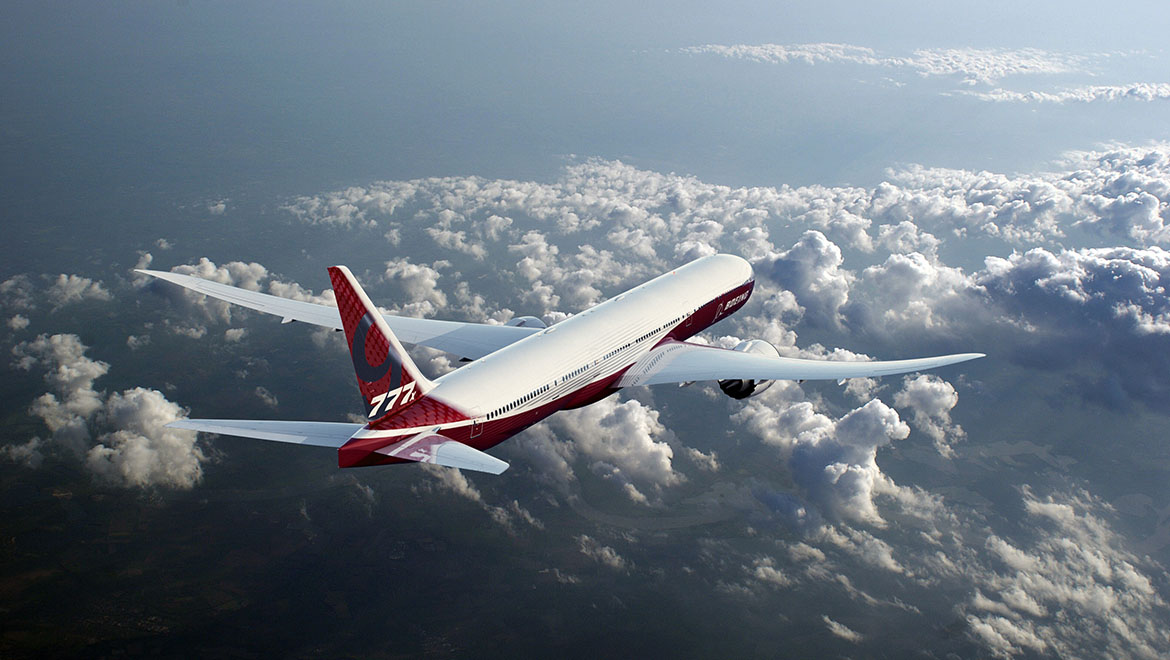
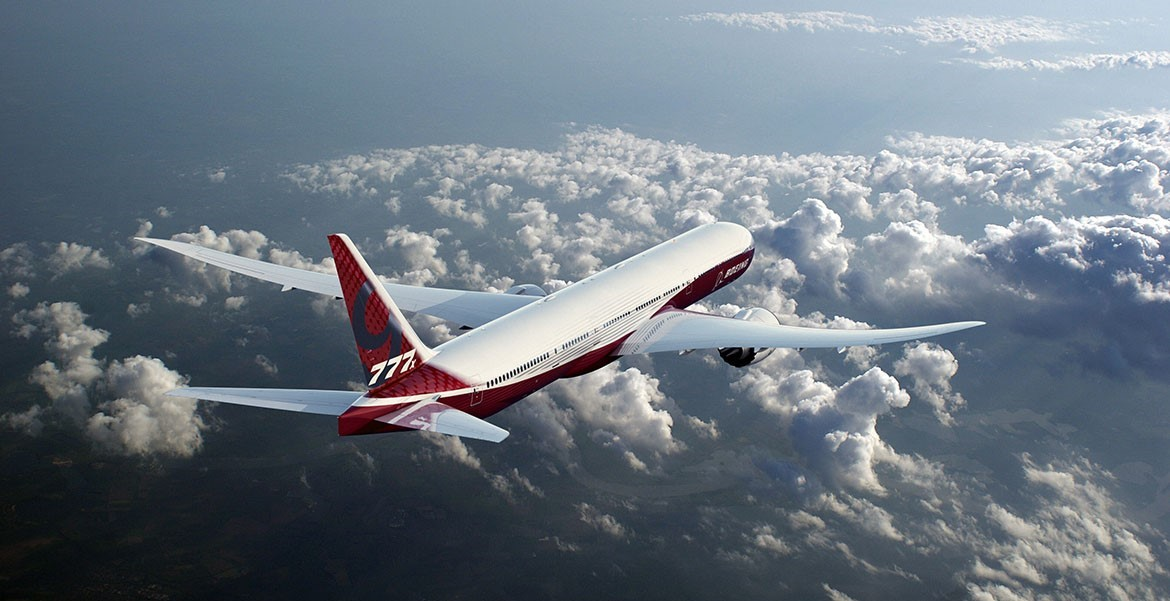
3nd commit

diff --git a/src/Pages/Technic.js b/src/Pages/Technic.js
@@ -1,65 +1,80 @@
+import Inhalt from "../Components/Inhalt";
+
 function Technic() {
   return (
     <div>
       <div className="pt-5 pr-5 pl-5">
-        <div className="p-10 text-slate-50 bg-slate-800 rounded-t-3xl rounded-bl-3xl ">
-          <h1 className="text-4xl">
+        <div className="p-10 pb-7 text-slate-50 bg-slate-800 rounded-t-2xl rounded-bl-2xl ">
+          <h1 className="text-4xl pb-5">
             Engineering/Tec - All Data about the 777X
           </h1>
+          <hr class="h-px border-t-0 bg-transparent bg-gradient-to-r from-transparent via-neutral-50 to-transparent opacity-25 dark:opacity-100" />
         </div>
       </div>
 
-      <div className="pl-5 pr-5">
-        <div className="flex flex-row">
-            <div className="w-5/12">
-            <img
-                className="object-cover rounded-3xl p-3.5 pr-1.25"
-                src="./pictures/Boeing777x_tec1.jpg"
-            ></img>
-            </div>
-
-            <div className="w-3/12">
-            <img
-                className="object-cover rounded-3xl p-3.5 pl-1.25"
-                src="./pictures/Boeing777x_tec2.jpg"
-            ></img>
-            </div>
-            
-            <div className="bg-slate-800 w-4/12 p-6 text-slate-50 rounded-b-3xl">
-            <h1 className="text-3xl">Technical Data:</h1>
-            <br/>
-
-            -Wingspan: 65m-71.8m <br/>
-            -Range: 
-            </div>
+      <div className="flex flex-row">
+        <div className="w-5/12">
+          <img
+            className="object-cover rounded-[2rem] p-5"
+            src="./pictures/Boeing777x_tec1.jpg"
+          ></img>
         </div>
+
+        <div className="w-3/12">
+          <img
+            className="object-cover rounded-[2rem] p-5"
+            src="./pictures/Boeing777x_tec2.jpg"
+          ></img>
+        </div>
+        <Inhalt />
+      </div>
+
+      <div className="p-5">
+        <h1 className="text-[30px] pb-2">Measurement:</h1>
+        <hr class="h-px border-t-0 bg-transparent bg-gradient-to-r from-transparent via-neutral-800 to-transparent opacity-25 dark:opacity-100" />
+
+        <div className="flex flex-row">
+          <div className>
+            <img
+              className="object-cover rounded-[2rem] p-5"
+              src="./pictures/mess2.png"
+            ></img>
+          </div>
+          <div>
+            <img
+              className="object-cover rounded-[2rem] p-5"
+              src="./pictures/mess1.png"
+            ></img>
+          </div>
+        </div>
+      </div>
+
+      <div className="p-5">
+        <h1 className="text-[30px] pb-2">Comparison: 777X vs The World </h1>
+        <hr class="h-px border-t-0 bg-transparent bg-gradient-to-r from-transparent via-neutral-800 to-transparent opacity-25 dark:opacity-100" />
+        <div className="flex flex-row">
+            <div className="w-1/4 p-3 border-r-2">
+            Boeing 777X: <br />
+            -Length 
+            777X-8 
+            777X-9 71.5m
+            </div>
+            <div className="w-1/4 p-3 border-r-2">
+            Boeing 777-200er:
+            </div>
+            <div className="w-1/4 p-3 border-r-2">
+            Airbus 350-1000:
+                
+            </div>
+            <div className="w-1/4 p-3">
+            Boeing 747-8i:
+            </div>
+
+        </div>
+
       </div>
     </div>
   );
 }
 export default Technic;
 
-{
-  /*
-<div className="p-14 text-slate-50 bg-slate-800 rounded-t-3xl rounded-bl-3xl">
-        hello and welcome on se 2nd site Engineering
-      </div>
-
-
-    
-      <div className="flex flex-row">
-        <div className="w-6/12">
-            <img className="object-cover rounded-3xl p-3" src="./pictures/Boeing777x_tec1.jpg"></img>     
-        </div>
-
-        <div className="w-3/12">
-            <img className="object-cover rounded-3xl pt-3 pr-3" src="./pictures/Boeing777x_tec2.jpg"></img>     
-        </div>
-
-        <div className="bg-slate-800 w-3/12 p-6 text-slate-50 rounded-b-3xl">
-            hello asdas
-        
-        </div>
-      </div>
-*/
-}

diff --git a/src/Components/Inhalt.js b/src/Components/Inhalt.js
@@ -1,0 +1,23 @@
+function Inhalt(){
+    return(
+        <div className=" pt-0 p-5 w-4/12 ">
+          <div className="bg-slate-800 p-4 text-slate-50 rounded-b-2xl">
+            <h1 className="text-3xl">Technical Data: </h1> <p className="text-[8px]">on this page</p>
+            <div className="p-2">
+              <hr class="h-px border-t-0 bg-transparent bg-gradient-to-r from-transparent via-neutral-50 to-transparent opacity-25 dark:opacity-100" />
+            </div>
+            <div>
+                Measurement: <br />
+              -Length<br />
+              -Height<br />
+              -Wingspan<br />
+              Range: <br />
+              -Fuel consuption <br />
+              Performance: <br />
+              -Engines <br />           
+            </div>
+          </div>
+        </div>
+    );
+}
+export default Inhalt;

diff --git a/src/Pages/Startseite.js b/src/Pages/Startseite.js
@@ -5,7 +5,7 @@ function Startseite() {
   return (
     <div className="w-full bg-[#828594] h-full ">
       <div className=" bg-[#828594] basis-1/2 ">
-        <img className="object-cover w-full" src="./pictures/Boeing777x.jpg"></img>
+        <img className="object-cover w-full" src="./pictures/new777x.png"></img>
       </div>
 
       <div className="flex flex-row justify-around bg-[#000000] w-full py-5 text-slate-50 basis-1/8">
